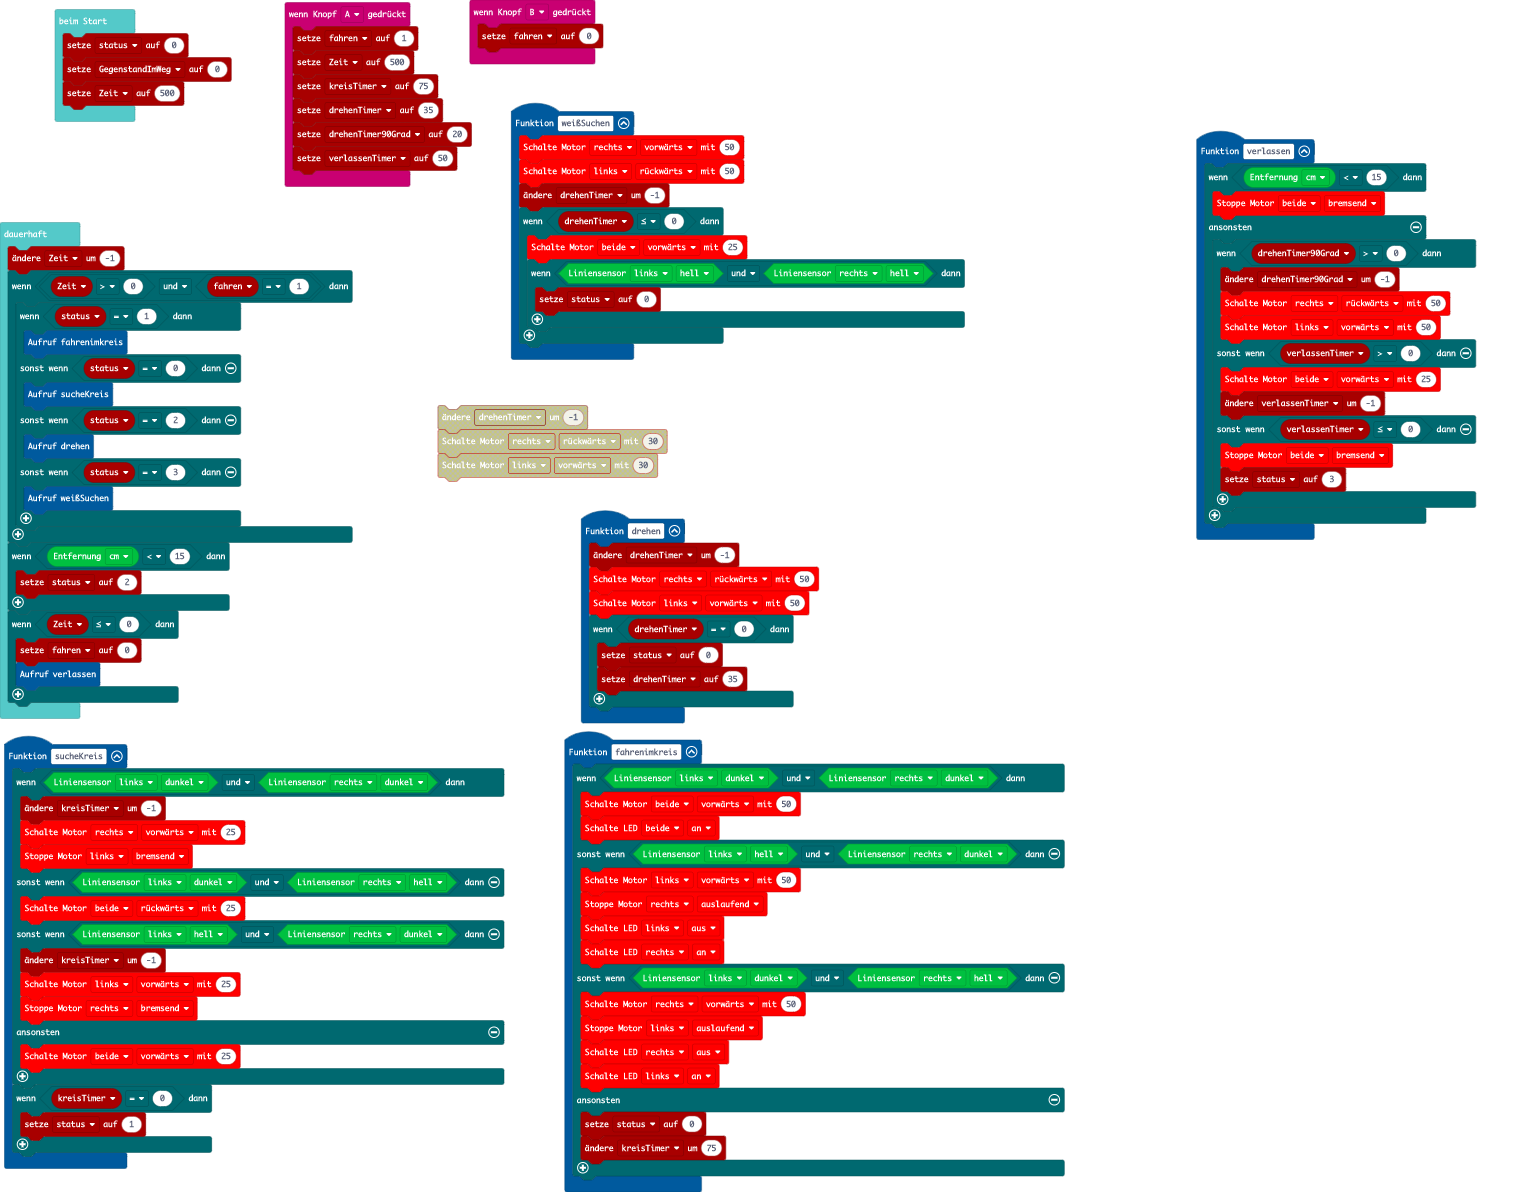
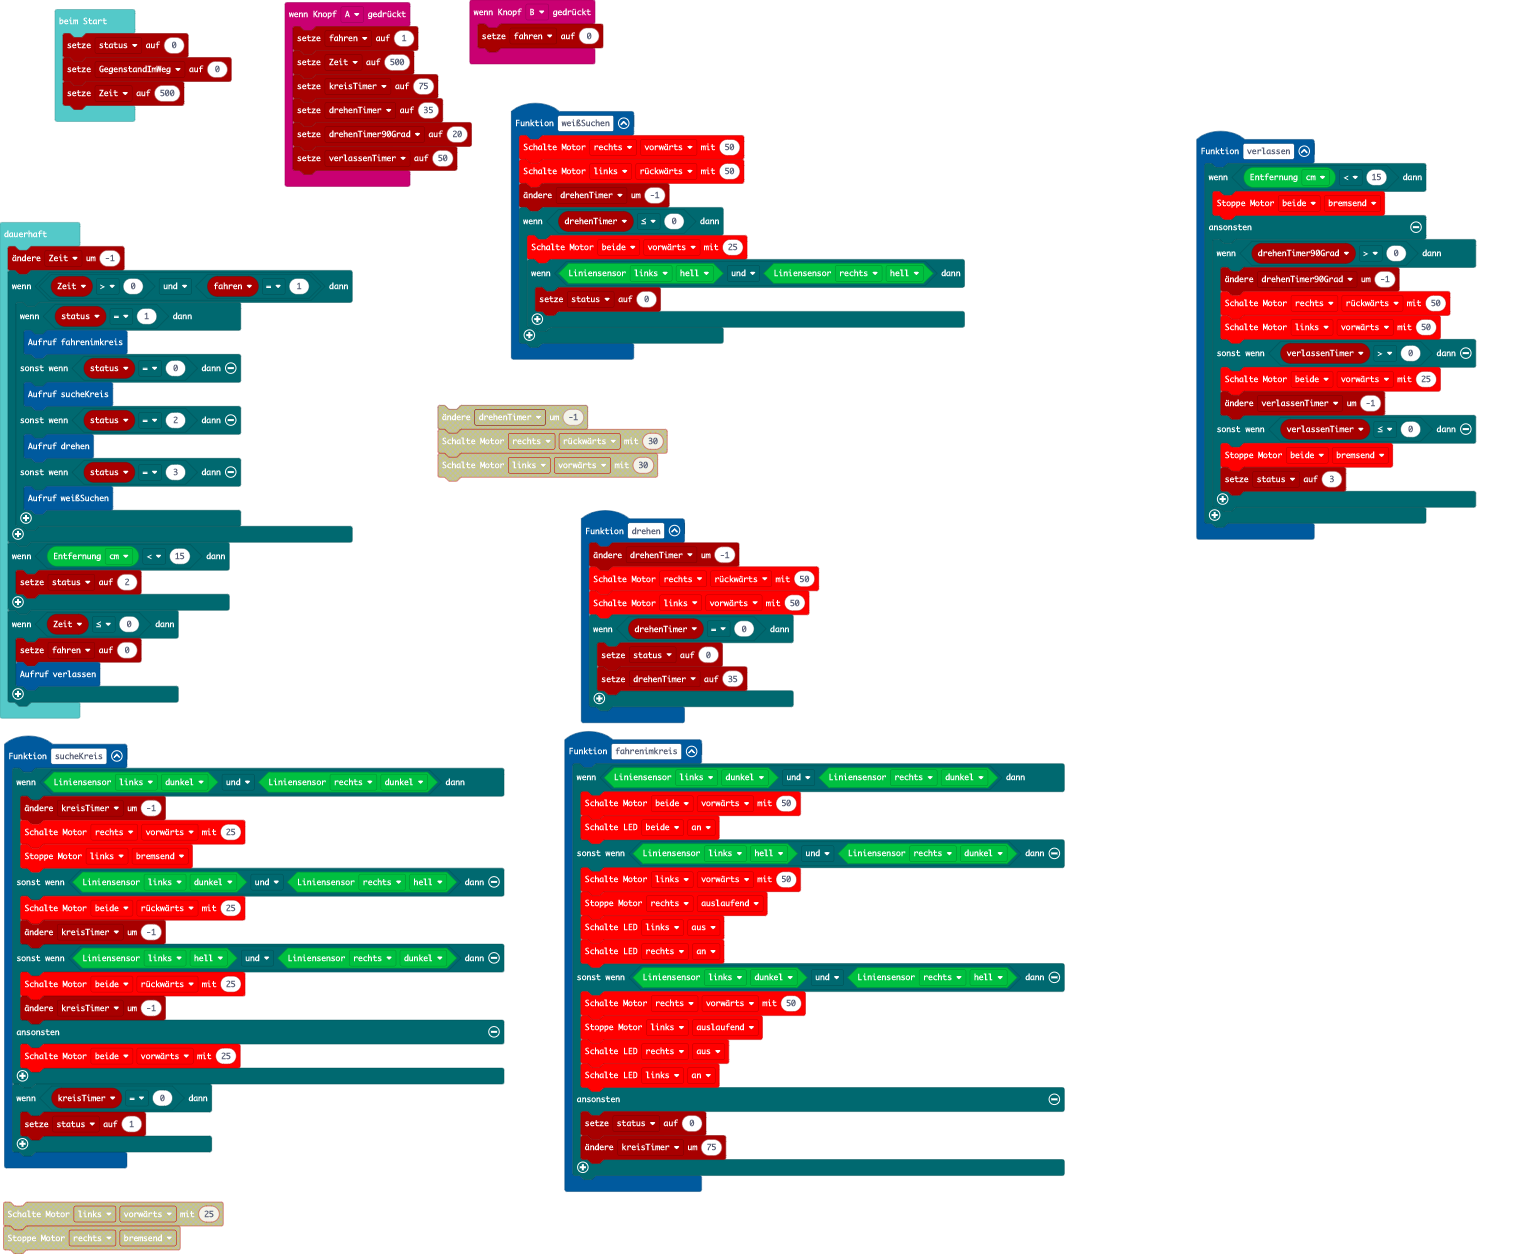
Aktualisiere main.blocks, main.ts

diff --git a/main.ts b/main.ts
@@ -42,10 +42,10 @@ function sucheKreis () {
         callibot.motorStop(KMotor.links, KStop.Bremsen)
     } else if (callibot.readLineSensor(KSensor.links, KSensorStatus.dunkel) && callibot.readLineSensor(KSensor.rechts, KSensorStatus.hell)) {
         callibot.motor(KMotor.beide, KDir.rückwärts, 25)
-    } else if (callibot.readLineSensor(KSensor.links, KSensorStatus.hell) && callibot.readLineSensor(KSensor.rechts, KSensorStatus.dunkel)) {
         kreisTimer += -1
-        callibot.motor(KMotor.links, KDir.vorwärts, 25)
-        callibot.motorStop(KMotor.rechts, KStop.Bremsen)
+    } else if (callibot.readLineSensor(KSensor.links, KSensorStatus.hell) && callibot.readLineSensor(KSensor.rechts, KSensorStatus.dunkel)) {
+        callibot.motor(KMotor.beide, KDir.rückwärts, 25)
+        kreisTimer += -1
     } else {
         callibot.motor(KMotor.beide, KDir.vorwärts, 25)
     }
